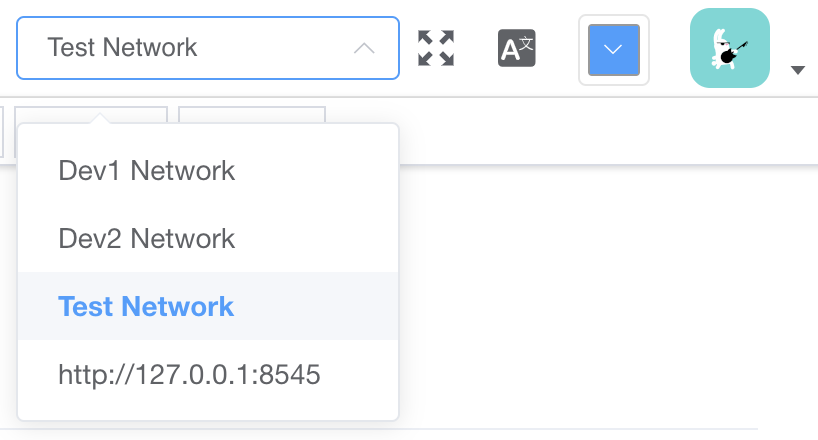
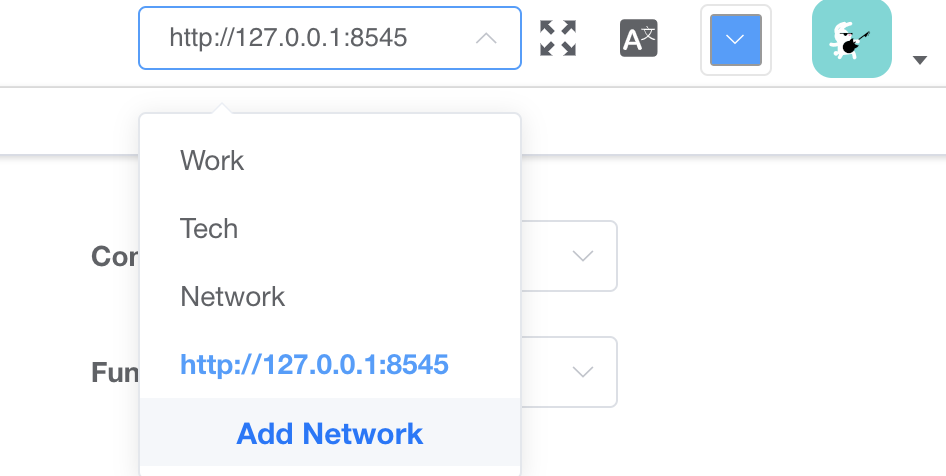
update ide-tool.md

diff --git a/testnet-tutorial/ide-tool.md b/testnet-tutorial/ide-tool.md
@@ -1,49 +1,53 @@
 # IDE Tool
 
-This document briefly introduces the features of Asimov [IDE Tool](https://ide.asimov.work). At this moment IDE tool is the most important tool provided by Asimov to develop/test smart contracts.
+This document briefly introduces the features of Asimov [IDE Tool](https://ide.asimov.tech). At this moment IDE tool is the most important tool provided by Asimov to develop/test smart contracts.
 
-> In the future, we will provide alternatives such as full functional command line tools. And the IDE tool itself is also being updated rapidly.
+> As we are still developing Asimov chain, the IDE tool will also be updated rapidly. Besides the IDE Tool, we also provide the full functional [CMD Tool](./cmd.md).
 
-## Switch Network
+## Network
 
-Similar to AsiLink wallet, you can switch network in the IDE tool from the up-right conner:
+Similar to AsiLink wallet, you can switch and add new network configuration in the IDE tool from the up-right conner:
 
 ![](./img/ide-network.png)
 
-## Blocks and Transactions
+## Block and UTXO
 
-You can view the latest block information on [BLOCKS](https://ide.asimov.work/#/blockchain) page, and search for specific transactions on [TRANSACTIONS](https://ide.asimov.work/#/transaction) page.
+You can view the latest block information on [BLOCK](https://ide.asimov.tech/#/blockchain) page, and search for specific utxos on [UTXO](https://ide.asimov.tech/#/utxo) page.
 
-> Note that the block and transaction information provided by the IDE tool are raw data from PRC service. For better experiences, please view them on [AScan-TestNet](https://ascan.asimov.network/). 
+> Note that the block and utxo information provided by the IDE tool are raw data from PRC service. For better experiences, please view them on [AScan-TestNet](https://ascan.asimov.network/). 
 
-## Create Template
+## RUN
 
-As elabrated in [Tutorial of Contract Development](tutorial-contract.md), we adopt TEMPLATE design. Developers can go to [SUBMIT](https://ide.asimov.work/#/contract-template) page to upload contract source code and create tempates on chain.
+As elabrated in [Tutorial of Contract Development](tutorial-contract.md), we adopt TEMPLATE design:
 
-## Review Template
+**Contract Source File** --submit--> **Asimov Template** --deploy--> **Contract Instance** --execute-->
 
-> Note the [REVIEW](https://ide.asimov.work/#/contract-template-vote) feature is subjected to change in the future. And for now, review feature is disabled in TestNet. All templates submitted will be approved automatically.
+### Submit
 
-Once a template is submitted, the security team will give a full review to make sure the contract logics are robust. They can either approve or decline a template after review.
+You can go to [Submit](https://ide.asimov.tech/#/run/submit) page to upload contract source code and create tempates on chain. You can upload folders/files and do basic IDE operations (add/delete file, change file contents, etc) on this page.
 
-## Deploy Template
+> Note the folders/files are shared with the [Test](https://ide.asimov.tech/#/test) page described below.
 
-All approved tempates will display on [DEPLOYMENT](https://ide.asimov.work/#/contract-deploy) page. For now, everyone can see others' templates as well. Find the template you need and provide the initialization parameters, you then can deploy a contract instance based on the template and have its address returned.
+### Deploy
+
+All submitted tempates will display on [Deploy](https://ide.asimov.tech/#/run/deploy) page. For now, everyone can see others' templates as well. Find the template you need and provide the initialization parameters, you then can deploy a contract instance based on the template and have its address returned.
 
 > You can have a better experience creating templates and deploying instances from the [Asimov Developers-TestNet](https://developer.asimov.network/) portal.
 
-## Run/Test Contract
+### Execute
 
-You can run contract functions and test contracts on [EXECUTION](https://ide.asimov.work/#/contract-call) page. The details of RUN and TEST are elabrated in [Tutorial of Contract Development](tutorial-contract.md) document.
+You can execute contract functions and on [Execution](https://ide.asimov.tech/#/run/execute) page. The details of execution is elabrated in [Tutorial of Contract Development](tutorial-contract.md) document.
 
-## Settings
+## Test
 
-At the moment, you can set solidity compiler version on [SETTINGS](https://ide.asimov.work/#/setting) page. The latest version is **flow_4.0.0.js**.
+We recommend "test driven development" paradigm for contract developing. Developers should write thorough testcases before submit a TEMPLATE on asimov. In test mode, we bypass the TEMPLATE precedure for convenience. You can test contracts on [Test](https://ide.asimov.tech/#/test) page. The details of test elabrated is in [Tutorial of Contract Development](tutorial-contract.md) document.
 
 ## Faucet
 
-You can fetch test Asim (the asimov system asset) from the [FAUCET](https://ide.asimov.work/#/receive) page. Details on how to do that are provided in [AsiLink](./asilink.md).
+You can fetch test Asim (the asimov system asset) from the [FAUCET](https://ide.asimov.tech/#/faucet) page. Details on how to do that are provided in [AsiLink](./asilink.md). You can also config the private key of the faucet on this page if you setup your own developing environment.
 
-## Tools
+> At the moment, you can set solidity compiler version on this page as well. The default compiler is **asimov.js**.
 
-At the moment, we provide easy access for developers to generate mnemonic and private key/address pairs based on BIP44 on [TOOLS](https://ide.asimov.work/#/tools) page.
+## Mnenmonic
+
+We provide easy access for developers to generate mnemonic and private key/address pairs based on BIP44 on [Mnenmonic](https://ide.asimov.tech/#/mnenmonic) page.
